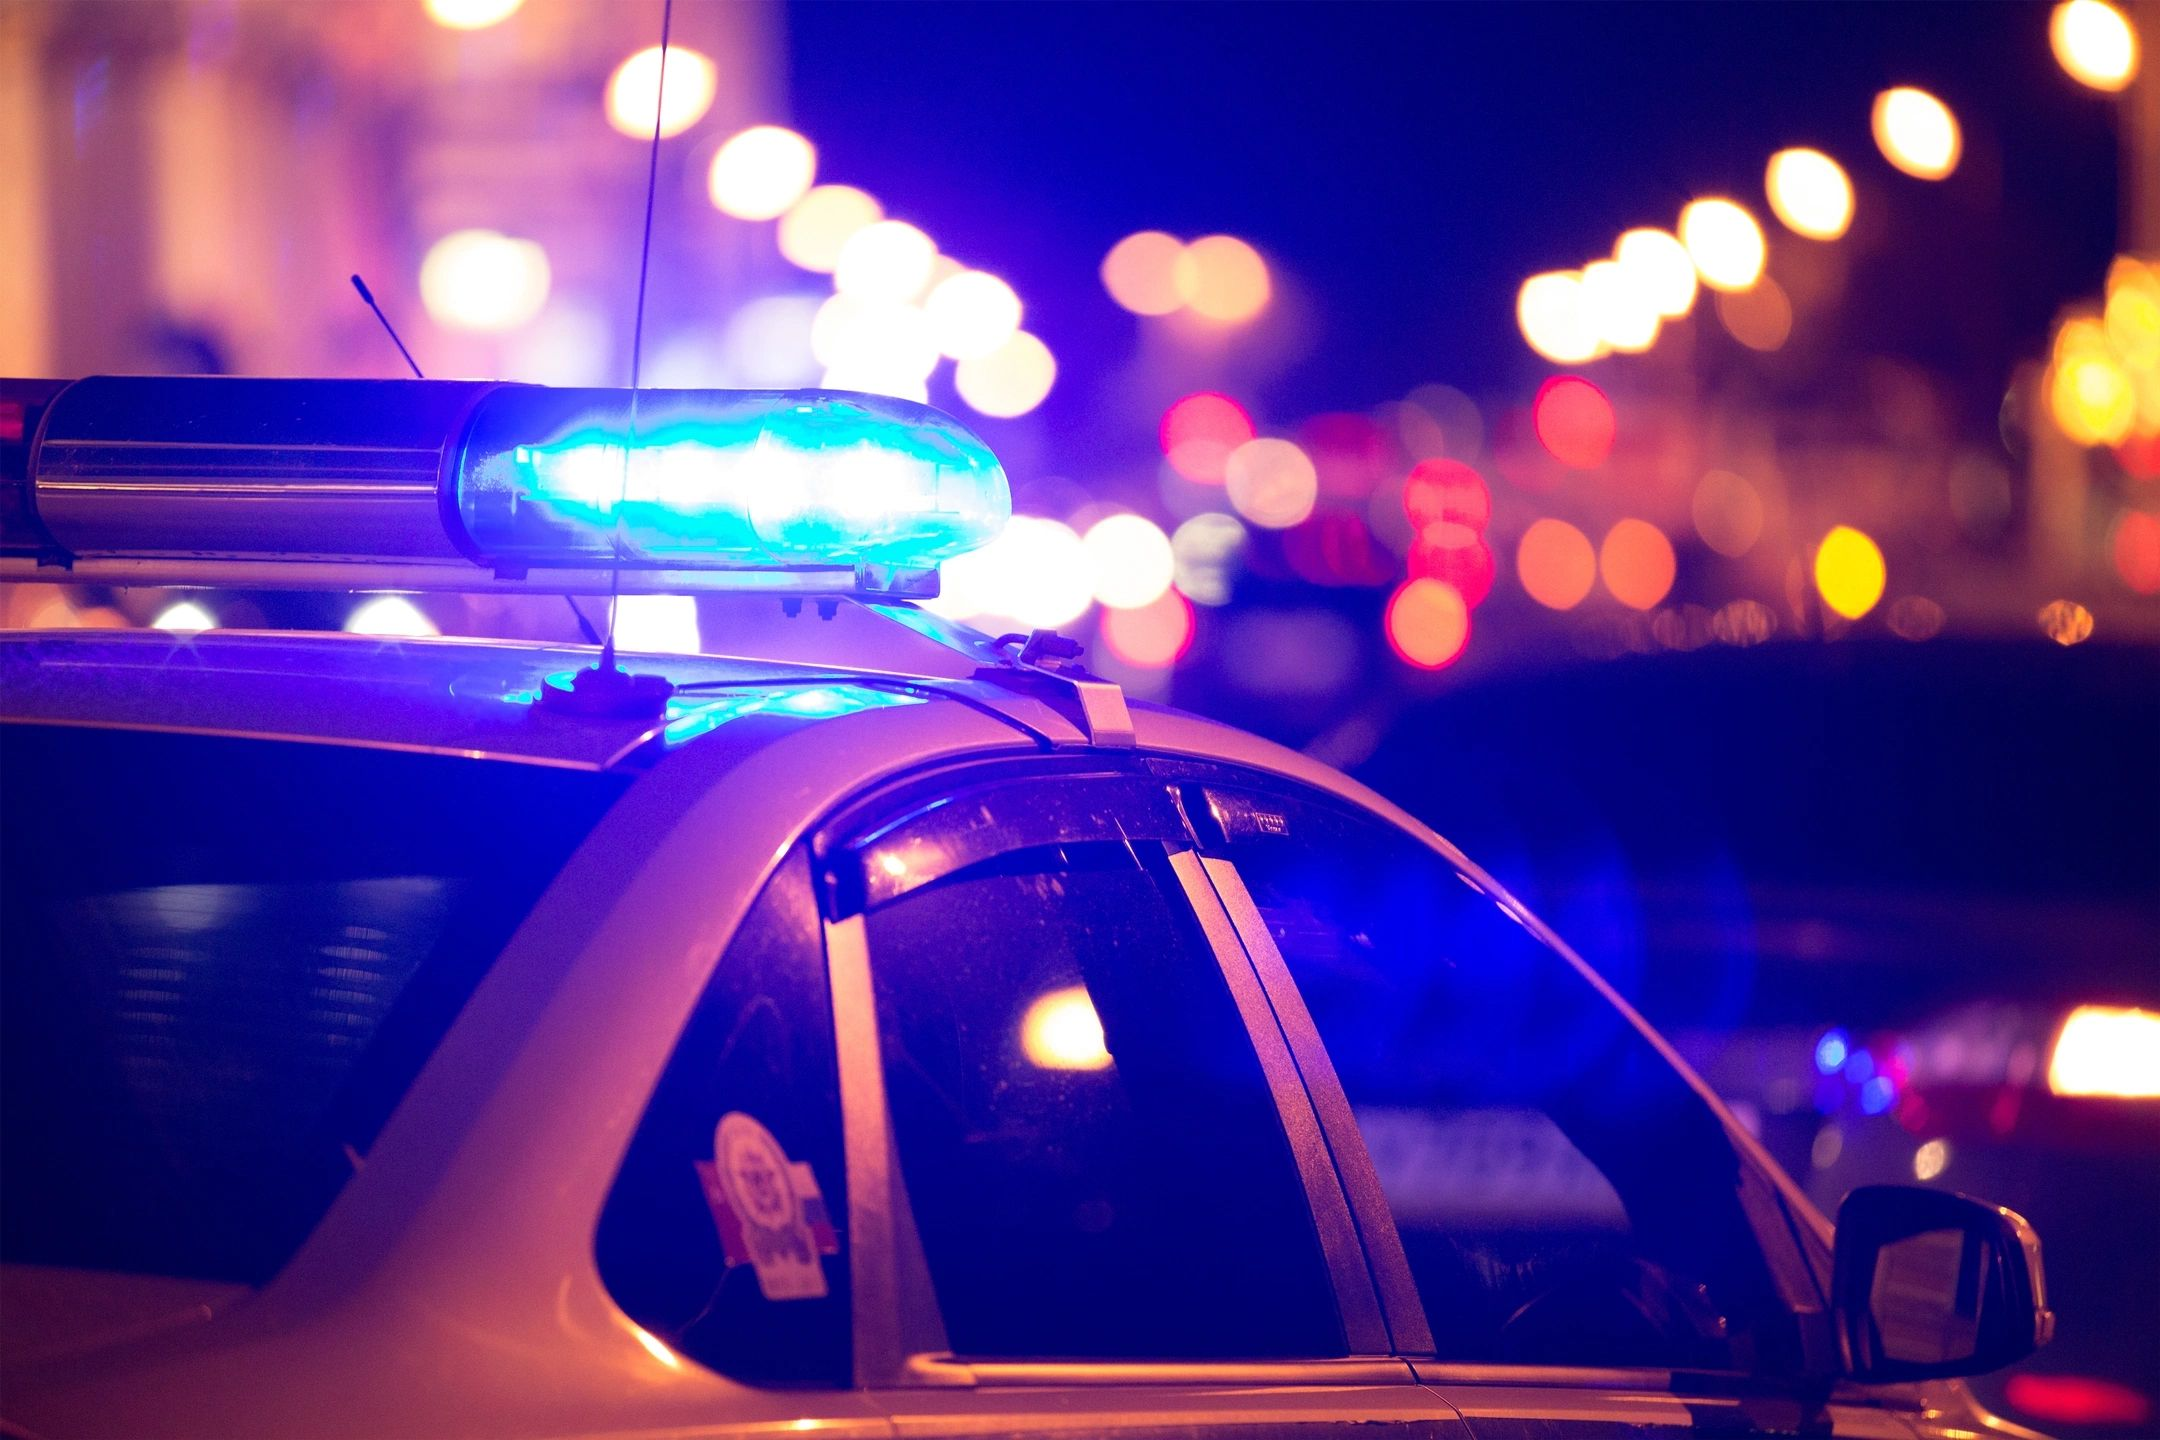
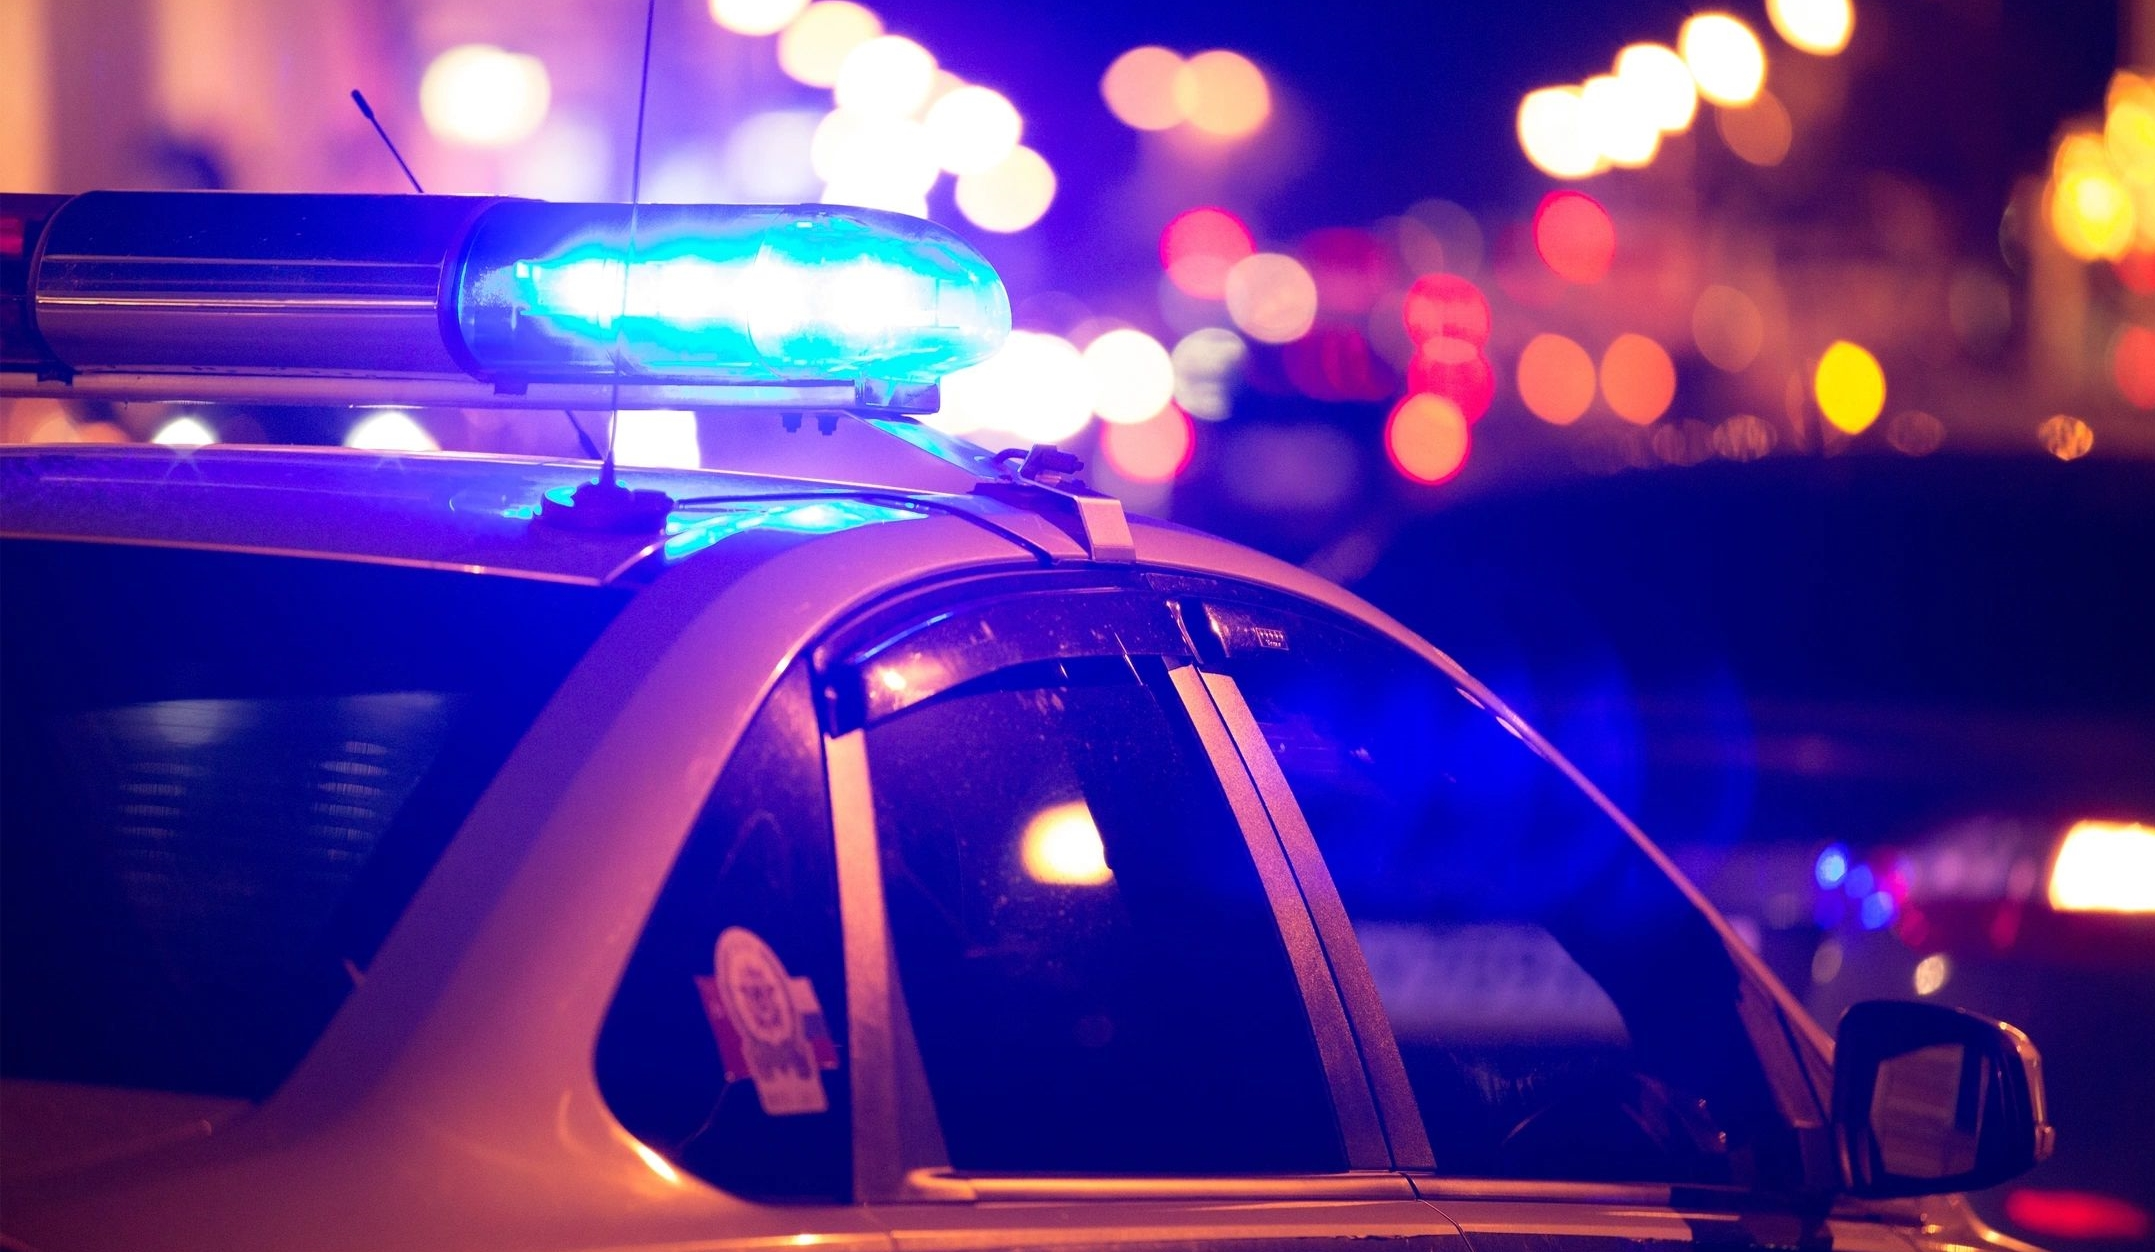
up img

diff --git a/game bg/test bg.html b/game bg/test bg.html
@@ -4,7 +4,11 @@
     <title>test</title>
     <style type="text/css">
     body{
-        background-image:url("1.0.jpg");
+        background-repeat: no-repeat;
+        background-size: cover;
+        background-image:url("3.0.jpg");
+        max-width: 100%;
+        height: auto!important;
     }
     </style>
 </head>
